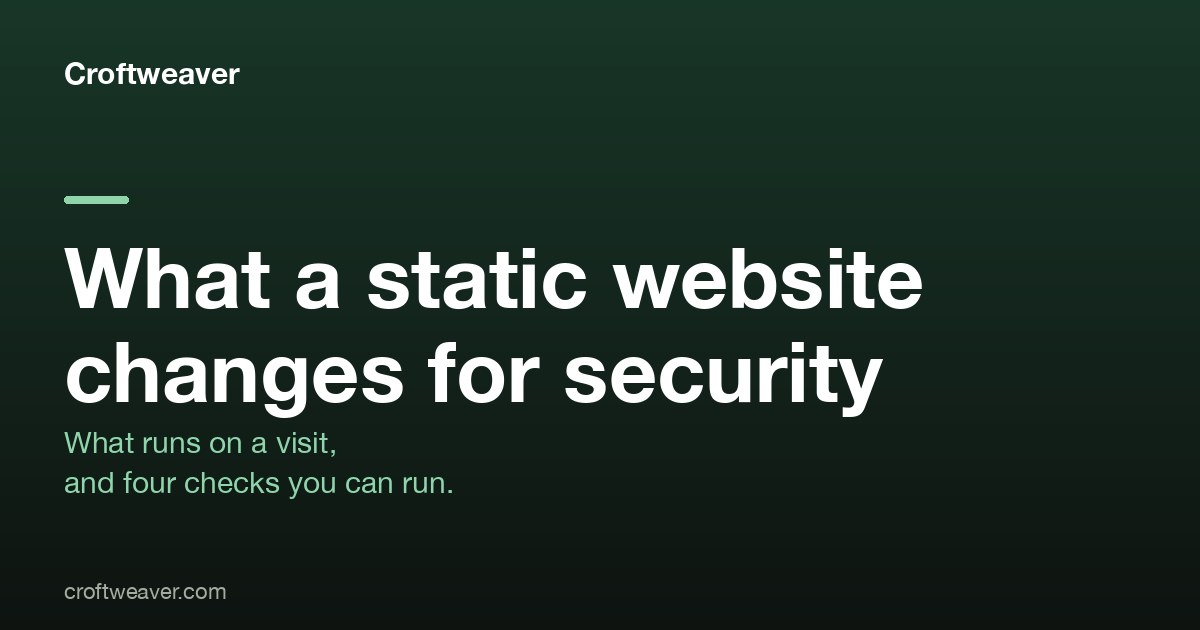
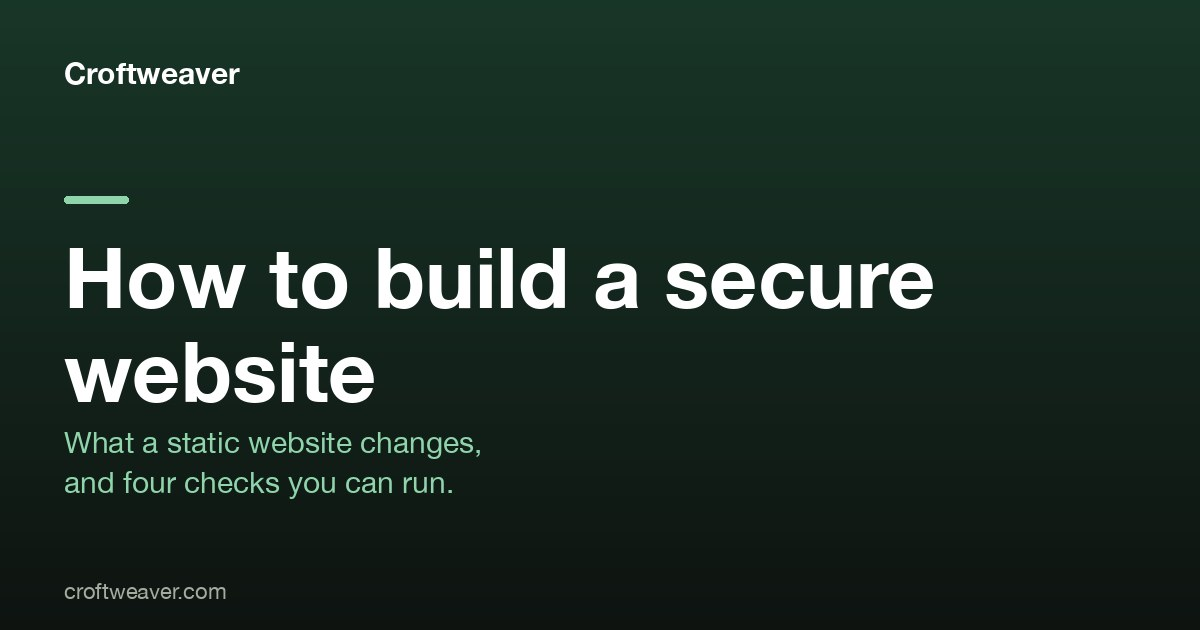
/security: H1 asks "How do I build a secure website?"; title and term follow
The page now leads with the question people search with. Its positioning term moves from
"static website" to "secure website" (owner, 2026-11-07); "static website" stays in the
description and the intro, and the positioning test pins both. The answer section's H2
becomes "The answer, in five steps" so the question is not asked twice; the share card
carries the new title.

Changed region(s): [[0.0308, 0.3921, 0.8017, 0.5127], [0.0308, 0.5429, 0.74, 0.6635], [0.1233, 0.6937, 0.4008, 0.7238]]

diff --git a/tests/seo.spec.ts b/tests/seo.spec.ts
@@ -264,12 +264,13 @@ test('seo — /security has an Article whose author is the maintainer of the hom
   expect(article.inLanguage).toBe(SITE.locale);
 });
 
-// /security answers the question people search with near the top, in their words. Moving the
-// answer below "In short", or rewording its heading, should fail here.
-test('seo — /security answers "How do I build a secure website?" before "In short"', async ({ page }) => {
+// /security asks the question people search with as its H1, in their words, and answers it
+// before "In short". Rewording the H1, or moving the answer below "In short", should fail here.
+test('seo — /security asks "How do I build a secure website?" and answers it before "In short"', async ({ page }) => {
   await page.goto('/security');
+  await expect(page.locator('h1')).toHaveText('How do I build a secure website?');
   const h2s = (await page.locator('h2').allTextContents()).map((s) => s.replace(/\s+/g, ' ').trim());
-  const answer = h2s.indexOf('How do I build a secure website?');
+  const answer = h2s.indexOf('The answer, in five steps');
   const short = h2s.indexOf('In short');
   expect(answer, 'the answer H2 is on the page').toBeGreaterThanOrEqual(0);
   expect(short, 'the "In short" H2 is on the page').toBeGreaterThanOrEqual(0);

diff --git a/tests/positioning.spec.ts b/tests/positioning.spec.ts
@@ -51,7 +51,9 @@ export const POSITIONING: Record<string, TermRule | SurfaceRule> = {
   '/what-it-runs-on': { term: 'what it runs on', body: ['tech stack'] },
   '/partner-assets': { term: 'partner assets' },
   '/about': { term: 'maintainer' },
-  '/security': { term: 'static website' },
+  // The H1 asks the question people search with (owner, 2026-11-07); "static website" stays in the
+  // description and the intro, which is how the page fits the rest of the site.
+  '/security': { title: ['secure website'], desc: ['secure website', 'static website'], h1: ['secure website', 'static website'] },
 };
 
 // Pages that legitimately own NO positioning term (legal / utility — privacy, imprint,

diff --git a/scripts/generate_og_cards.py b/scripts/generate_og_cards.py
@@ -82,7 +82,7 @@ PAGES: list[tuple[str, str, list[str]]] = [
     ("positioning", "Positioning first", ["What your site says,", "decided before the copy."]),
     ("partner-assets", "Partner assets", ["Badge, logo and icon", "for sites built with Croftweaver."]),
     ("about", "About Croftweaver", ["A note from the maintainer,", "and who he is."]),
-    ("security", "What a static website changes for security", ["What runs on a visit,", "and four checks you can run."]),
+    ("security", "How to build a secure website", ["What a static website changes,", "and four checks you can run."]),
     ("terms", "Terms of Use", ["Free software under the MIT licence,", "used as it is."]),
     ("support", "Support", ["Questions, bugs and security reports:", "where to reach us."]),
     # ("about",    "What we do",  ["One clear promise —", "for the people it's for."]),

diff --git a/CONTENT_GUIDE.md b/CONTENT_GUIDE.md
@@ -109,7 +109,7 @@ uses `SITE.titleHome` as the whole title, so that one may be up to 60 characters
 | Positioning | `/positioning` | how Croftweaver works out what a site says before any copy, and how a test keeps each page on it | positioning | Positioning first: what your site says | [x] spec below |
 | Partner assets | `/partner-assets` | the partner kit (badge, logo, icon) to download, the code for a footer, the rules for using it, and the request to credit Croftweaver (never a condition) | partner assets | Partner assets: badge, logo and icon | [x] |
 | About | `/about` | a note from the maintainer in his own words (owner-approved 2026-10-14), who he is, how to reach him; figures read from `src/data/proof.ts` | maintainer | About Croftweaver and its maintainer | [x] |
-| Security | `/security` | what a static website changes for security: first a direct answer to "How do I build a secure website?" (five steps from the checklist, and where an attacker can try to get in), then what runs on a visit, what Cloudflare handles, what stays with the owner, a checklist, four checks a reader can run and croftweaver.com's own result; every fact a dated claim in `src/data/security.ts` (plan and sources: the private hub's `security-page/`) | static website | What a static website changes for security | [x] |
+| Security | `/security` | how to build a secure website, and what a static website changes for security: first a direct answer (five steps from the checklist, and where an attacker can try to get in), then what runs on a visit, what Cloudflare handles, what stays with the owner, a checklist, four checks a reader can run and croftweaver.com's own result; every fact a dated claim in `src/data/security.ts` (plan and sources: the private hub's `security-page/`) | secure website | How to build a secure website | [x] |
 | Privacy | `/privacy` | GDPR | — | Privacy Policy | [x] |
 | Imprint | `/imprint` | § 5 DDG legal disclosure | — | Imprint | [x] |
 | 404 | (not a route in `PAGES`) | not found | — | — | [ ] |

diff --git a/POSITIONING.md b/POSITIONING.md
@@ -246,7 +246,7 @@ is built.
 | Positioning | `/positioning` | positioning | — | live |
 | Partner assets | `/partner-assets` | partner assets | — | live |
 | About | `/about` | maintainer | — | live |
-| Security | `/security` | static website | — | live |
+| Security | `/security` | secure website (and "static website" in the description and intro; owner, 2026-11-07) | — | live |
 | Privacy | `/privacy` | exempt (legal) | — | live |
 | Imprint | `/imprint` | exempt (legal) | — | live |
 
